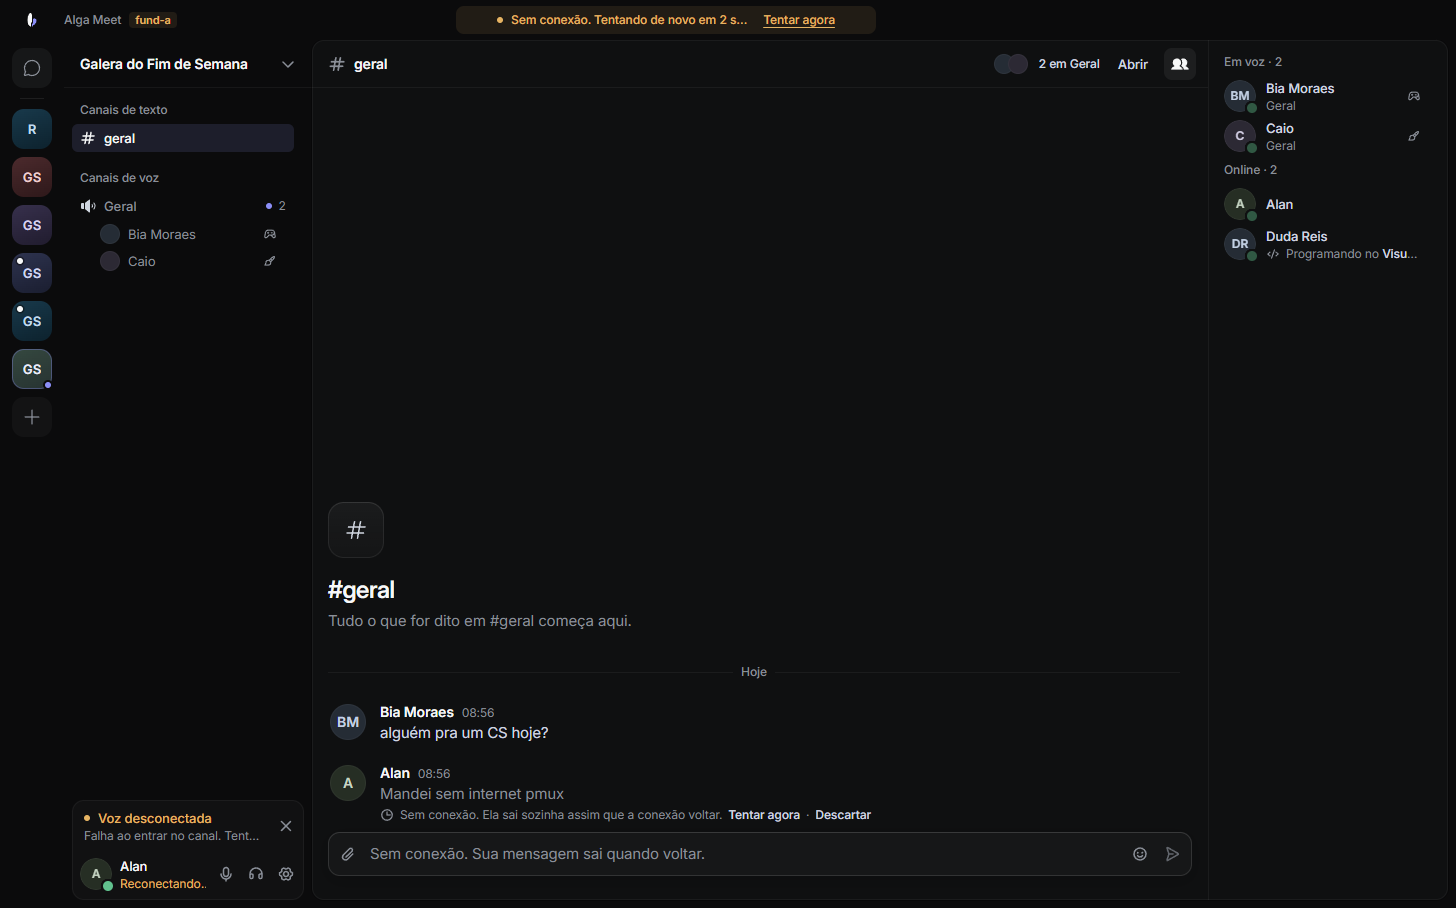
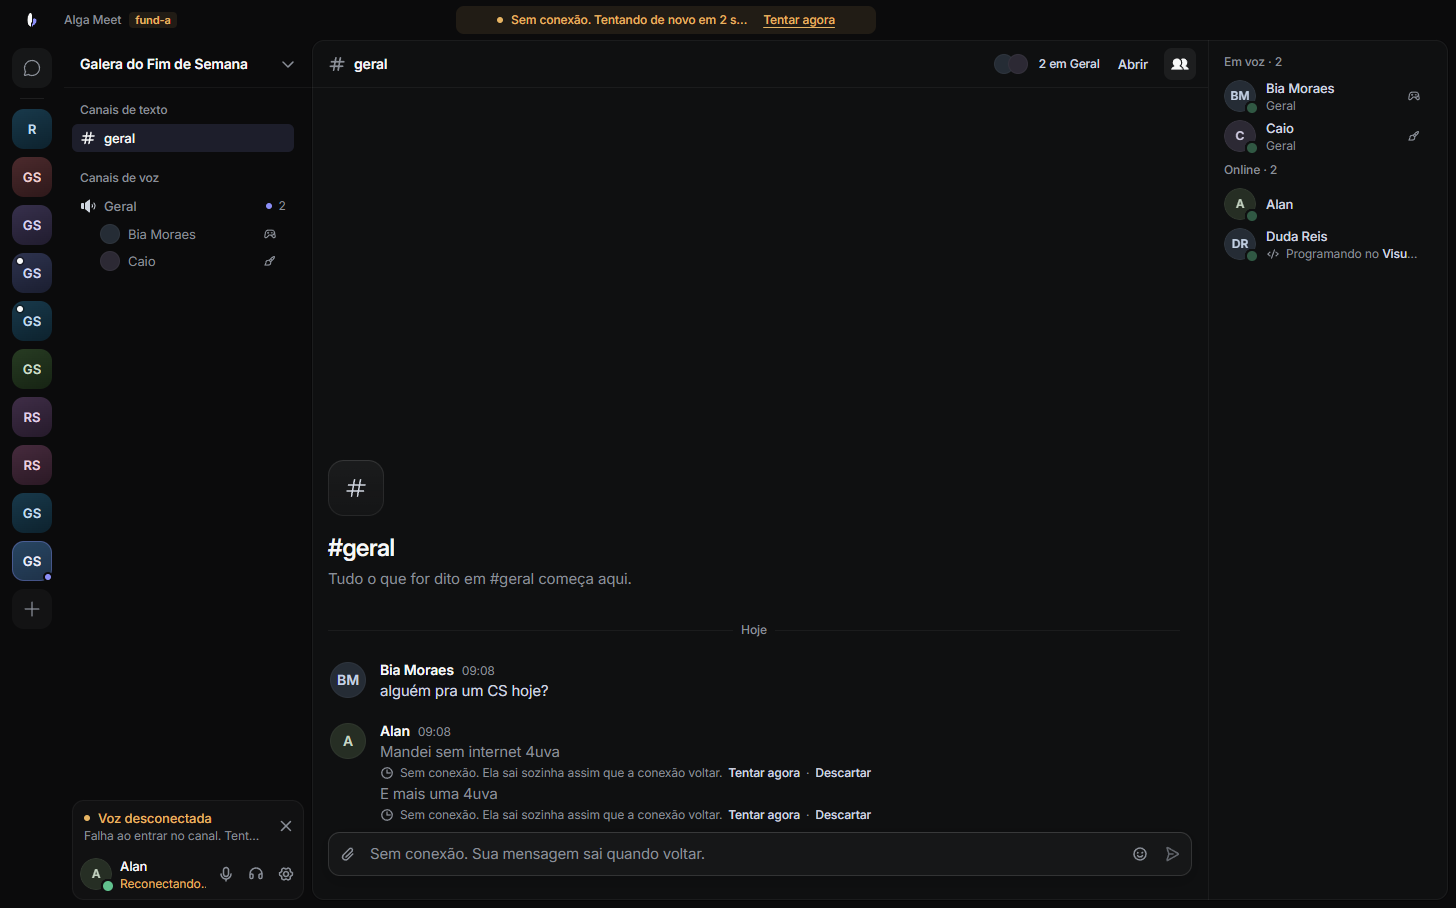
fix: review findings on the fundamentals branch (queue, prefs, consent, full room, mic, privacy)
Independent review, all 8 findings fixed:
- Send queue survives reconnect: READY keeps unsent (optimistic) copies when
  it drops a stale cached list, the flush runs after READY is applied, a set
  of in-flight nonces stops a manual "Tentar agora" and the queue posting the
  same send twice, 429 and network failures stay queued with a backoff retry
  while the link is up, and only those stop the flush (a refusal with a
  reason goes red and no longer blocks the rest). Test: READY keeps the
  queue; E2E: two sends while the API is down plus a friend posting before
  the reconnect, both arrive once (19/19).
- Notification prefs load at startup for the signed-in account (the shell
  mounts after the first READY) and are never written before they were
  loaded, so a restart no longer forgets or wipes them.
- Auto-join is bound to the exact invite code and cleared on use, on close,
  on a dead invite and on sign-out.
- "Sala cheia" counts only the others and never blocks members who can move
  people (as the server does).
- A mic test still opening when the lobby goes away (Testar, then Entrar)
  is closed at once.
- The public invite preview returns only the inviter's id, name and avatar.

diff --git a/apps/desktop/src/renderer/src/store/actions.ts b/apps/desktop/src/renderer/src/store/actions.ts
@@ -52,12 +52,17 @@ const release = (nonce: string) => {
  * On failure the copy stays in place, flagged in `sendFailures` (with the server's reason when there is one),
  * until retried or discarded.
  */
+/** Sends with a request in flight: a manual "Tentar agora" and the automatic queue never post the same one twice at once. */
+const sending = new Set<string>()
+
 export async function sendMessage(channelId: string, content: string, replyToId?: string, retryNonce?: string, files?: OutgoingFile[]): Promise<void> {
   const d = useData.getState()
   const me = d.me
   if (!me) return
   // v7 so the optimistic copy sorts after existing history.
   const nonce = retryNonce ?? uuidv7()
+  if (sending.has(nonce)) return
+  sending.add(nonce)
   if (files?.length) outbox.set(nonce, files)
   const out = outbox.get(nonce) ?? []
   const attachments: Attachment[] = out.map((f, i) => ({
@@ -90,10 +95,14 @@ export async function sendMessage(channelId: string, content: string, replyToId?
   } catch (e) {
     // The gateway echo may have reconciled it already (response lost, message saved).
     if (useData.getState().messages[channelId]?.byId[nonce]) {
-      useData.getState().setSendFailed(nonce, e instanceof ApiRequestError && e.status !== 0 ? errorText(e) : true)
+      // No connection or too fast (429): it waits in the queue. Any other refusal carries its reason and waits for you.
+      const transient = !(e instanceof ApiRequestError) || e.status === 0 || e.status === 429
+      useData.getState().setSendFailed(nonce, transient ? true : errorText(e))
+      if (transient) retryLater(e instanceof ApiRequestError ? e.retry?.afterMs : undefined)
     } else release(nonce)
     throw e
   } finally {
+    sending.delete(nonce)
     useData.getState().setUpload(nonce, null)
   }
 }
@@ -121,19 +130,21 @@ export async function flushQueuedSends(): Promise<void> {
   if (flushing) return
   flushing = true
   try {
-    const st = useData.getState()
     // uuidv7 nonces sort by creation time: the conversation keeps its order.
-    const queued = Object.entries(st.sendFailures).filter(([, v]) => v === true).map(([nonce]) => nonce).sort()
+    const queued = Object.entries(useData.getState().sendFailures).filter(([, v]) => v === true).map(([nonce]) => nonce).sort()
     for (const nonce of queued) {
+      const st = useData.getState()
+      if (st.sendFailures[nonce] !== true || sending.has(nonce)) continue // sent, discarded or being sent meanwhile
       const channelId = Object.keys(st.messages).find((c) => st.messages[c]?.byId[nonce])
       if (!channelId) {
-        useData.getState().setSendFailed(nonce, false)
+        st.setSendFailed(nonce, false)
         continue
       }
       try {
         await retrySend(channelId, nonce)
-      } catch {
-        break // still offline: the next reconnect tries again
+      } catch (e) {
+        // Still no connection (or rate limited): stop here and keep the order; retryLater() comes back for the rest.
+        if (!(e instanceof ApiRequestError) || e.status === 0 || e.status === 429) break
       }
     }
   } finally {
@@ -141,11 +152,30 @@ export async function flushQueuedSends(): Promise<void> {
   }
 }
 
+/** Backoff while the queue waits and the realtime link stays up (a failed upload, a 429): 3 s, 10 s, 30 s, then every minute. */
+const BACKOFF_MS = [3_000, 10_000, 30_000, 60_000]
+let backoff = 0
+let backoffTimer: ReturnType<typeof setTimeout> | undefined
+function retryLater(afterMs?: number): void {
+  if (backoffTimer) return
+  const wait = Math.max(afterMs ?? 0, BACKOFF_MS[Math.min(backoff++, BACKOFF_MS.length - 1)]!)
+  backoffTimer = setTimeout(() => {
+    backoffTimer = undefined
+    if (useSession.getState().gateway === 'ready') void flushQueuedSends().then(() => {
+      if (!Object.values(useData.getState().sendFailures).includes(true)) backoff = 0
+    })
+  }, wait)
+}
+
 export function startSendQueue(): () => void {
-  const flush = () => void flushQueuedSends()
+  // After READY is applied (the status flips first, in the same tick): the lists it keeps are the ones the queue reads.
+  const flush = () => setTimeout(() => void flushQueuedSends(), 0)
   window.addEventListener('online', flush)
   const off = useSession.subscribe((s, p) => {
-    if (s.gateway === 'ready' && p.gateway !== 'ready') flush()
+    if (s.gateway === 'ready' && p.gateway !== 'ready') {
+      backoff = 0
+      flush()
+    }
   })
   return () => {
     window.removeEventListener('online', flush)

diff --git a/apps/desktop/src/renderer/src/features/app/notifyPrefs.ts b/apps/desktop/src/renderer/src/features/app/notifyPrefs.ts
@@ -29,9 +29,12 @@ export const useSilenced = (spaceId: string): boolean => useNotify((st) => level
 const keyFor = (userId: string) => `alga.notify.${userId}`
 let timer: ReturnType<typeof setTimeout> | undefined
 
+/** The account whose choices are in the store; nothing is written for anyone else (no empty state over saved prefs). */
+let loadedFor: string | null = null
+
 function save(): void {
   const me = useData.getState().me?.id
-  if (!me) return
+  if (!me || me !== loadedFor) return
   const { levels, muted } = useNotify.getState()
   localStorage.setItem(keyFor(me), JSON.stringify({ levels, muted }))
 }
@@ -75,20 +78,30 @@ export function unmute(id: string): void {
 
 const isLevel = (v: unknown): v is NotifyLevel => v === 'all' || v === 'mentions' || v === 'none'
 
-/** On every READY: this account's saved choices (a malformed entry is dropped, never trusted). */
+/** This account's saved choices (a malformed entry is dropped, never trusted). */
+function load(userId: string): void {
+  let raw: unknown = null
+  try {
+    raw = JSON.parse(localStorage.getItem(keyFor(userId)) ?? 'null')
+  } catch {
+    raw = null
+  }
+  const r = (raw && typeof raw === 'object' ? raw : {}) as { levels?: unknown; muted?: unknown }
+  const levels = Object.fromEntries(Object.entries((r.levels as Record<string, unknown>) ?? {}).filter(([, v]) => isLevel(v))) as Record<string, NotifyLevel>
+  const muted = Object.fromEntries(Object.entries((r.muted as Record<string, unknown>) ?? {}).filter(([, v]) => typeof v === 'number' && Number.isFinite(v))) as Record<string, number>
+  loadedFor = userId
+  useNotify.setState({ levels, muted })
+  prune()
+}
+
+/**
+ * Loads now for the signed-in account (the shell mounts after the first READY, so that one has already passed) and
+ * again on every READY (another account signed in on this PC).
+ */
 export function startNotifyPrefs(): () => void {
+  const me = useData.getState().me?.id
+  if (me) load(me)
   return onDispatch((d) => {
-    if (d.t !== 'READY') return
-    let raw: unknown = null
-    try {
-      raw = JSON.parse(localStorage.getItem(keyFor(d.d.user.id)) ?? 'null')
-    } catch {
-      raw = null
-    }
-    const r = (raw && typeof raw === 'object' ? raw : {}) as { levels?: unknown; muted?: unknown }
-    const levels = Object.fromEntries(Object.entries((r.levels as Record<string, unknown>) ?? {}).filter(([, v]) => isLevel(v))) as Record<string, NotifyLevel>
-    const muted = Object.fromEntries(Object.entries((r.muted as Record<string, unknown>) ?? {}).filter(([, v]) => typeof v === 'number' && Number.isFinite(v))) as Record<string, number>
-    useNotify.setState({ levels, muted })
-    prune()
+    if (d.t === 'READY' && d.d.user.id !== loadedFor) load(d.d.user.id)
   })
 }

diff --git a/apps/desktop/src/renderer/src/features/voice/CallStage.tsx b/apps/desktop/src/renderer/src/features/voice/CallStage.tsx
@@ -1,11 +1,11 @@
-import type { Channel } from '@alga/shared'
+import { Permission, type Channel } from '@alga/shared'
 import { ArrowLeftRight, BarChart3, Headphones, Mic, Minimize, MonitorUp, MoreHorizontal, PictureInPicture2, Scan, ShieldOff, Square, Volume2, WifiOff, X, Signal, type Glyph } from '@/ui/icons'
 import { AnimatePresence, motion } from 'motion/react'
 import { useEffect, useLayoutEffect, useMemo, useRef, useState, type ReactNode, type RefObject } from 'react'
 import { useShallow } from 'zustand/react/shallow'
 import { media, useMedia, type StreamQuality } from '@/media'
 import { useData } from '@/store/data'
-import { channelTitle, displayName, voiceMembers } from '@/store/selectors'
+import { can, channelTitle, displayName, spacePermissions, voiceMembers } from '@/store/selectors'
 import { Avatar, Button, contextMenuHandler, Icon, IconButton, Popover, SegmentedControl, Spinner, Switch, Tooltip, useEnvelope, usePersonHue, type AvatarSize } from '@/ui'
 import type { IconSize } from '@/ui/Icon'
 import { EASE_IN_OUT_CUBIC, EASE_OUT_QUART } from '@/ui/motion'
@@ -54,6 +54,9 @@ export function CallStage({ channel, variant = 'channel' }: { channel: Channel; 
   const here = conn.channelId === channel.id && conn.state !== 'idle'
   const live = here && (conn.state === 'connecting' || conn.state === 'connected' || conn.state === 'reconnecting')
   const joining = useVoice((st) => st.joining === channel.id)
+  // Full = the others fill it (the server does not count you), and moderators who can move people still get in.
+  const mover = useData((st) => !!channel.spaceId && can(spacePermissions(st, channel.spaceId), Permission.MOVE_MEMBERS))
+  const full = !!channel.userLimit && !mover && people.filter((p) => p.userId !== meId).length >= channel.userLimit
 
   // Watching is opt-in and costs bandwidth: leaving the call's stage keeps one stream for the mini-player
   // (the one in focus, else the first) and stops the rest.
@@ -119,7 +122,7 @@ export function CallStage({ channel, variant = 'channel' }: { channel: Channel; 
       {live ? (
         <ControlsDock channel={channel} />
       ) : (
-        <LobbyDock channel={channel} joining={joining} full={!!channel.userLimit && people.length >= channel.userLimit} />
+        <LobbyDock channel={channel} joining={joining} full={full} />
       )}
     </section>
   )

diff --git a/apps/desktop/src/renderer/src/features/app/deepLinks.ts b/apps/desktop/src/renderer/src/features/app/deepLinks.ts
@@ -9,14 +9,14 @@ import { t } from './strings'
 /**
  * algameet:// links waiting for the right screen: the reset token for the reset form (signed out) and the invite
  * code for the join preview (after sign-in). Tokens/codes are bearer secrets: kept in memory only, never logged.
- * `autoJoin`: the person signed in or created the account on the sign-in screen *because of* this invite, so the
- * join happens without asking again. An invite opened while already signed in still asks first (a stranger's link
- * must never pull you into a space on one click).
+ * `autoJoinCode`: the person signed in or created the account on the sign-in screen *because of* this invite, so that
+ * one invite joins without asking again (and only that one: cleared on use, on close, on error and on sign-out). An
+ * invite opened while already signed in still asks first (a stranger's link must never pull you into a space on one click).
  */
-export const useDeepLink = create<{ resetToken: string | null; inviteCode: string | null; autoJoin: boolean }>()(() => ({
+export const useDeepLink = create<{ resetToken: string | null; inviteCode: string | null; autoJoinCode: string | null }>()(() => ({
   resetToken: null,
   inviteCode: null,
-  autoJoin: false,
+  autoJoinCode: null,
 }))
 
 async function handle(link: DeepLink): Promise<void> {
@@ -40,7 +40,8 @@ async function handle(link: DeepLink): Promise<void> {
 export function startDeepLinks(): () => void {
   // Signed in from the sign-in screen (not a saved session) while an invite waits: that sign-in was the yes.
   const offAuth = useSession.subscribe((s, p) => {
-    if (s.phase === 'signed_in' && p.phase === 'signed_out' && useDeepLink.getState().inviteCode) useDeepLink.setState({ autoJoin: true })
+    if (s.phase === 'signed_in' && p.phase === 'signed_out') useDeepLink.setState({ autoJoinCode: useDeepLink.getState().inviteCode })
+    if (s.phase === 'signed_out' && p.phase !== 'signed_out') useDeepLink.setState({ autoJoinCode: null })
   })
   const dl = window.alga?.deepLinks
   if (!dl) return offAuth

diff --git a/apps/desktop/src/renderer/src/features/voice/ControlsDock.tsx b/apps/desktop/src/renderer/src/features/voice/ControlsDock.tsx
@@ -137,12 +137,24 @@ export function LobbyDock({ channel, joining, full }: { channel: Channel; joinin
   const dock = useRef<HTMLDivElement>(null)
   useToastClearance(dock)
   const join = useRef<HTMLButtonElement>(null)
+  const alive = useRef(true)
+  const started = useRef(false)
   useEffect(() => {
+    alive.current = true
     // Leaving by keyboard (Desconectar) removes the focused call dock: the keyboard lands on Entrar, not on <body>.
     if (document.activeElement === document.body) join.current?.focus()
     // The test belongs to this screen: leaving it, or joining (the call takes the mic), ends it.
-    return () => void (useMedia.getState().micTest.active && media.stopMicTest())
+    return () => {
+      alive.current = false
+      if (started.current || useMedia.getState().micTest.active) void media.stopMicTest()
+    }
   }, [])
+  // A test that finishes opening the mic after this screen is gone (Testar, then Entrar right away) is closed at once.
+  const startTest = async () => {
+    started.current = true
+    await media.startMicTest({ loopback: false })
+    if (!alive.current) void media.stopMicTest()
+  }
   return (
     <div ref={dock} className={s.dock} role="toolbar" aria-label={t.lobby.toolbar}>
       <CallButton
@@ -169,7 +181,7 @@ export function LobbyDock({ channel, joining, full }: { channel: Channel; joinin
         pressed={testing}
         on={testing}
         disabled={!self.mic}
-        onClick={() => void (testing ? media.stopMicTest() : media.startMicTest({ loopback: false }))}
+        onClick={() => void (testing ? media.stopMicTest() : startTest())}
       />
       <CallButton icon={Settings2} label={t.dock.settings} onClick={() => openSettings('voice')} />
       <span className={s.dockSep} />

diff --git a/apps/desktop/src/renderer/src/features/spaces/SpaceModals.tsx b/apps/desktop/src/renderer/src/features/spaces/SpaceModals.tsx
@@ -1,6 +1,6 @@
 import type { Invite } from '@alga/shared'
 import { Check, Copy, Hash, MessageCircle, Users, Volume2 } from '@/ui/icons'
-import { useEffect, useState, type FormEvent } from 'react'
+import { useEffect, useRef, useState, type FormEvent } from 'react'
 import { ApiRequestError } from '@/lib/api'
 import { copyText } from '@/lib/clipboard'
 import { errorText, fieldErrors } from '@/lib/errors'
@@ -144,13 +144,21 @@ function JoinSpaceModal({ open, onClose, initial }: { open: boolean; onClose: ()
   const inv = preview.state === 'ok' ? preview.invite! : null
   const already = !!(inv && spaces[inv.space.id])
 
-  // Came from "create your account to join": the account was the yes, so enter right away (once).
+  // Came from "create your account to join" with this very invite: the account was the yes, so enter right away (once).
   useEffect(() => {
-    if (!open || !inv || !useDeepLink.getState().autoJoin) return
-    useDeepLink.setState({ autoJoin: false })
-    void submit()
+    if (!open || !inv) return
+    const code = useDeepLink.getState().autoJoinCode
+    if (!code) return
+    useDeepLink.setState({ autoJoinCode: null })
+    if (code === inv.code) void submit()
     // eslint-disable-next-line react-hooks/exhaustive-deps -- fires once per preview
   }, [open, inv])
+  // Closing the dialog (not merely being closed) or a dead invite also ends the "join without asking" promise.
+  const wasOpen = useRef(open)
+  useEffect(() => {
+    if ((wasOpen.current && !open) || (open && preview.state === 'error')) useDeepLink.setState({ autoJoinCode: null })
+    wasOpen.current = open
+  }, [open, preview.state])
 
   const submit = async (e?: FormEvent) => {
     e?.preventDefault()

diff --git a/apps/desktop/src/renderer/src/store/data.ts b/apps/desktop/src/renderer/src/store/data.ts
@@ -161,12 +161,16 @@ export const useData = create<DataState>()((set, get) => ({
         const roles: DataState['roles'] = {}
         const channels: Record<string, Channel> = byId(r.privateChannels)
         for (const sp of r.spaces) Object.assign(channels, byId(sp.channels))
-        // READY has no messages: keep loaded history only where nothing was missed while offline.
+        // READY has no messages: keep loaded history only where nothing was missed while offline. Unsent copies
+        // (optimistic, id === nonce) always stay: they are the send queue, and a list holding only them reloads its history.
         const messages = Object.fromEntries(
-          Object.entries(s.messages).filter(([cid, list]) => {
-            const last = channels[cid]?.lastMessageId
+          Object.entries(s.messages).flatMap(([cid, list]): [string, MessageList][] => {
+            if (!channels[cid]) return []
+            const last = channels[cid].lastMessageId
             const newest = list.ids.findLast((id) => list.byId[id]?.nonce !== id)
-            return !!channels[cid] && (!last || (!!newest && newest >= last))
+            if (!last || (!!newest && newest >= last)) return [[cid, list]]
+            const unsent = list.ids.filter((id) => list.byId[id]?.nonce === id)
+            return unsent.length ? [[cid, { ids: unsent, byId: Object.fromEntries(unsent.map((id) => [id, list.byId[id]!])), hasMoreBefore: true, loading: false }]] : []
           }),
         )
         const users: Record<string, PublicUser> = { ...authorsOf(Object.values(messages).flatMap((l) => Object.values(l.byId))), ...byId(r.users) }

diff --git a/apps/desktop/src/renderer/src/lib/qa-fixes.test.ts b/apps/desktop/src/renderer/src/lib/qa-fixes.test.ts
@@ -64,6 +64,18 @@ describe('message authors stay known users (banned / departed)', () => {
     expect(useData.getState().messages.geral?.ids).toEqual(['0002'])
     expect(displayName(useData.getState(), 'caio', S)).toBe('Caio Prado')
   })
+
+  it('a reconnect READY that drops stale history keeps the unsent copies (the send queue)', () => {
+    const d = useData.getState()
+    d.apply({ t: 'READY', d: ready('ana', []) })
+    const unsent = (nonce: string): Message => ({ ...message(nonce, user('ana', 'Ana')), nonce })
+    d.upsertMessages('geral', [message('0001', user('caio', 'Caio Prado')), unsent('0003'), unsent('0004')])
+    // While offline someone posted 0005: the cached list is stale and goes, the two waiting sends stay.
+    d.apply({ t: 'READY', d: { ...ready('ana', []), spaces: [{ ...ready('ana', []).spaces[0]!, channels: [{ ...channel, lastMessageId: '0005' }] }] } })
+    const list = useData.getState().messages.geral!
+    expect(list.ids).toEqual(['0003', '0004'])
+    expect(list.hasMoreBefore).toBe(true) // the history reloads around them
+  })
 })
 
 describe('UI zoom steps (Ctrl+= / Ctrl+- / Ctrl+0)', () => {

diff --git a/apps/server/src/routes/spaces.ts b/apps/server/src/routes/spaces.ts
@@ -97,7 +97,9 @@ export function invitePublicRoutes(app: FastifyInstance, { db }: Ctx): void {
     const found = await loadInvite(db, codeParam(req.params.code))
     if (!found || !usable(found.invite)) throw notFound('Convite inválido ou expirado.')
     const [inviter] = await db.select().from(users).where(eq(users.id, found.invite.inviterId))
-    return { ...(await inviteView(db, found.invite, found.space)), ...(inviter ? { inviter: publicUser(inviter) } : {}) }
+    // Public endpoint: only a name and a face, never the username, bio or cosmetics.
+    const face = inviter ? (({ id, displayName, avatarUrl }) => ({ id, displayName, avatarUrl }))(publicUser(inviter)) : null
+    return { ...(await inviteView(db, found.invite, found.space)), ...(face ? { inviter: face } : {}) }
   })
 }
 

diff --git a/apps/server/test/spaces.test.ts b/apps/server/test/spaces.test.ts
@@ -128,7 +128,7 @@ describe('invites', () => {
     expect(preview.body.space).toMatchObject({ id: space.id, name: 'Público' })
     // A new person sees who called them: the inviter's public profile only (no e-mail).
     expect(preview.body.inviter).toMatchObject({ id: owner.user.id, displayName: owner.user.displayName })
-    expect(preview.body.inviter).not.toHaveProperty('email')
+    expect(Object.keys(preview.body.inviter!).sort()).toEqual(['avatarUrl', 'displayName', 'id'])
 
     const gwOwner = await connect(s.port, owner.token)
     const gwJoiner = await connect(s.port, joiner.token)

diff --git a/packages/shared/src/models.ts b/packages/shared/src/models.ts
@@ -182,7 +182,7 @@ export interface Invite {
   expiresAt: string | null
   memberCount: number
   /** Who sent it (public profile): only on the public preview (GET /invites/:code), so a new person sees a face. */
-  inviter?: PublicUser
+  inviter?: Pick<PublicUser, 'id' | 'displayName' | 'avatarUrl'>
 }
 
 export interface VoiceState {

diff --git a/docs/STATE.md b/docs/STATE.md
@@ -1,5 +1,31 @@
 # Alga Meet — Estado do projeto
 
+## 2026-11-05 manhã — Fundamentos do backlog da pesquisa Discord (branch `feat/fundamentals`, NÃO mesclada nem publicada)
+Worktree `D:\PROJETOS\alga-presence`, a partir da main `ffb4ec2`. Itens P0 de `docs/research/discord/04-prioritized-backlog.md`
+(a pesquisa em si está no checkout principal, ainda não commitada):
+- **BL-05 Olhar a sala antes de entrar:** o 1º clique na sala de voz (barra lateral e "Agora" da Home) abre o lobby (quem está, o
+  que cada um faz, "Ninguém te vê aqui ainda"); o 2º clique, duplo clique ou Enter entra. Barra do lobby no lugar da barra da
+  chamada: mic, áudio, teste de mic opcional (o anel acende), ajustes e "Entrar"; "Sala cheia" no limite. Botões "Entrar"
+  explícitos (Ativo agora, cabeçalho do chat) continuam entrando direto.
+- **BL-07 Notificação calma:** nível por espaço (Todas / Só @menções / Silenciado) com padrão adaptativo (≤ 10 membros: todas;
+  maior: menções), "Silenciar por 1 hora", silenciar canal e DM. Silenciado não mostra ponto, não notifica e não conta na barra
+  de tarefas; a @menção continua visível no app. Guardado no PC por conta (atalho anotado em `notifyPrefs.ts`).
+- **BL-06 Sem ações implícitas:** conferido, sem mudança ("digitando" só com texto; Esc não marca lido).
+- **BL-02 Mensagem que sempre chega, uma vez:** envio idempotente por nonce no servidor (**migração 0014**, coluna + índice único);
+  falha de rede vira "Sem conexão. Ela sai sozinha…" e reenvia sozinha ao reconectar. A fila vive na memória (atalho anotado).
+- **BL-04 Convite → dentro em segundos:** prévia pública do convite traz quem convidou; tela de cadastro com o rosto de quem chamou
+  e o espaço, começando em "Criar conta"; criar a conta ali = aceitar (entra sozinho). Convite aberto já logado continua pedindo
+  confirmação.
+- **Links de convite que abrem (achado novo, era P0 escondido):** os links apontavam para `alga.meet`, que não existe, e o site não
+  tinha `/i/`. Agora: página `apps/site/src/pages/i` (quem chamou, abrir no app, baixar, código) e links do app para
+  `https://alga-meet.vercel.app/i/<código>`; "Enviar no WhatsApp" no convite. **Para valer:** publicar o site com a rota do README
+  e pôr `https://alga-meet.vercel.app` em `CORS_ORIGINS` do staging.
+Verificado: servidor 251 testes, desktop 328, typecheck limpo; E2E real 18/18 (`apps/desktop/scripts/fundamentals-shots.mjs`, API
+de QA :4360, voz simulada por webhook do LiveKit) e página de convite em Chromium contra a API de QA. Prints:
+`docs/screenshots/2026-11-05-fundamentals-*`. **Publicar** = deploy do servidor (migração 0014 roda no boot), release 0.1.6 no
+`alga-verify`, deploy do site e o `CORS_ORIGINS`. Não feito (depende do dono): BL-01 parecer jurídico, BL-08 auditoria da loja
+(pacote C não commitado), BL-03 motor de mídia (trabalho de mídia não commitado).
+
 ## 2026-11-05 madrugada — Atividade em tempo real + perfil (branch `feat/presence`, NÃO mesclada)
 Worktree `D:\PROJETOS\alga-presence`. Rich presence (detector nativo sem dependência nova; jogo/app com ícone, capa Steam,
 tempo ao vivo), "Ativo agora" em Amigos, status personalizado com validade (balão no perfil), perfil completo (agora,
